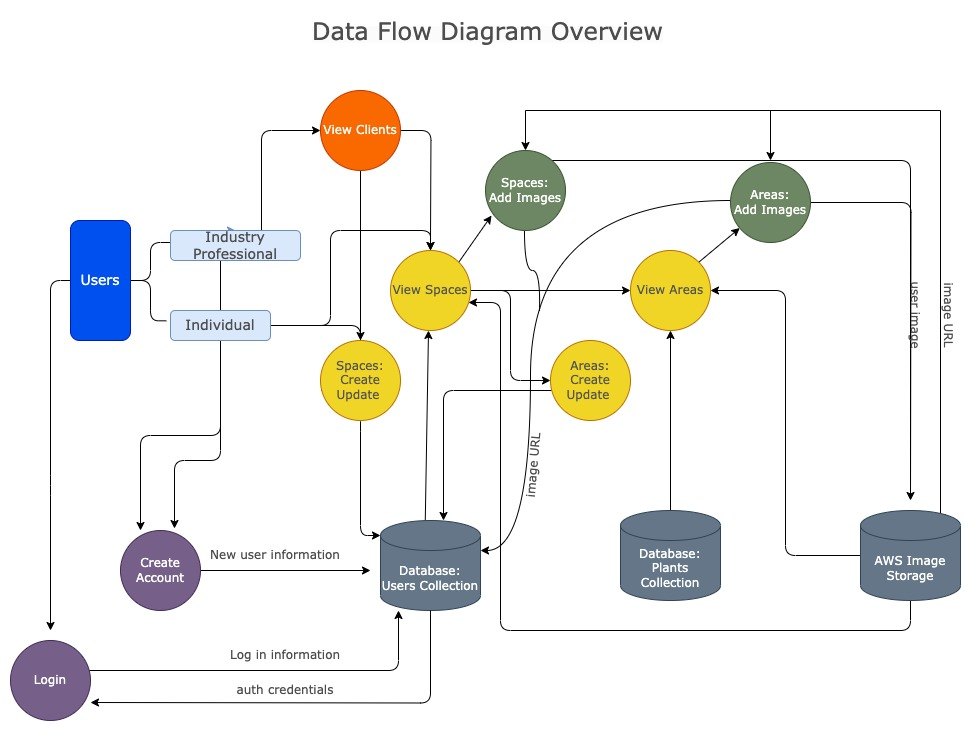
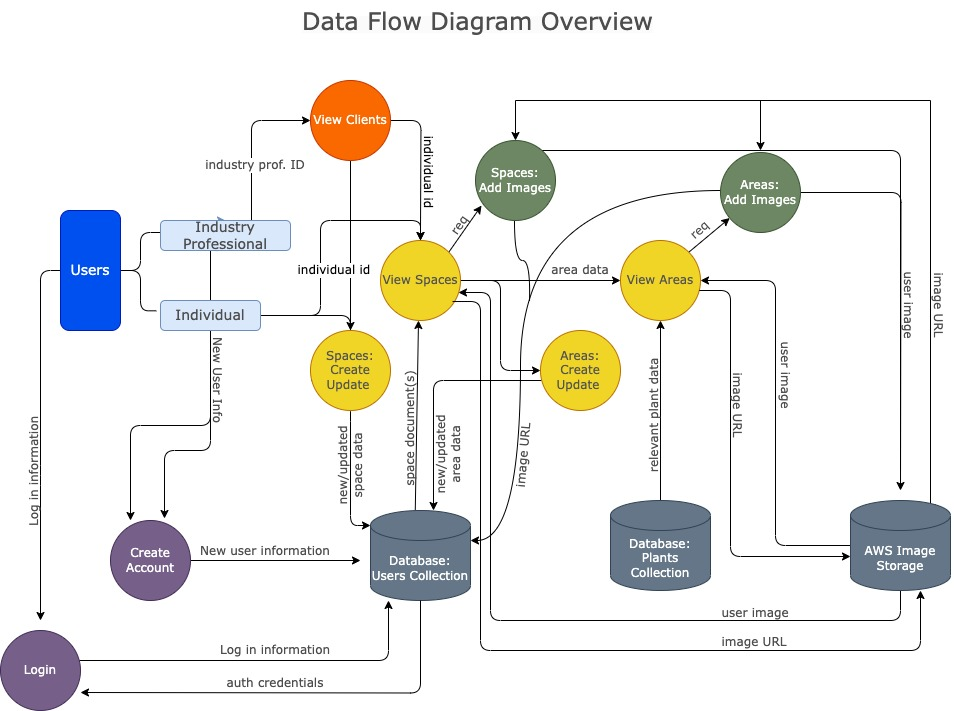
updated diagrams

diff --git a/README.md b/README.md
@@ -2,32 +2,27 @@
 
 The primary ways data flows within the application are standard user registration/login actions, full crud for a collection spaces (larger areas of a property ie. front yard, back yard) and full crud operations for areas (sub-sections of a space ie. northwest flower bed, verge). Both spaces and areas allow for user provided name, description and notes, stored in a the users collection on the database. Additionally the app allows for user uploaded images of spaces and areas which are uploaded to an AWS image server which responds with an image URL. The returned image URL is then stored appropriately in the users collection on the database. 
 
-![data flow overview](./docs/dataflow-diagrams/overview.jpg)
-###### Data flow: Overview  
+
+![data flow legend](./docs/dataflow-diagrams/legend.jpg)
 </br>  
 
 ![data flow overview](./docs/dataflow-diagrams/full-view.jpg)
-###### Data flow: Full View
 
 </br>  
 
 ![data flow login](./docs/dataflow-diagrams/login.jpg)
-###### Data flow: Login
 
 </br>  
 
 ![data flow view spaces/areas](./docs/dataflow-diagrams/view-spaces-areas.jpg)
-###### Data flow: View Spaces and Areas
 
 </br>  
 
 ![data flow create/update spaces/areas](./docs/dataflow-diagrams/create-update-spaces-areas.jpg)
-###### Data flow: Create/Update Spaces and Areas
 
 </br>  
 
 ![data flow add images](./docs/dataflow-diagrams/add-images.jpg)
-###### Data flow: Add Images
 
 
 
